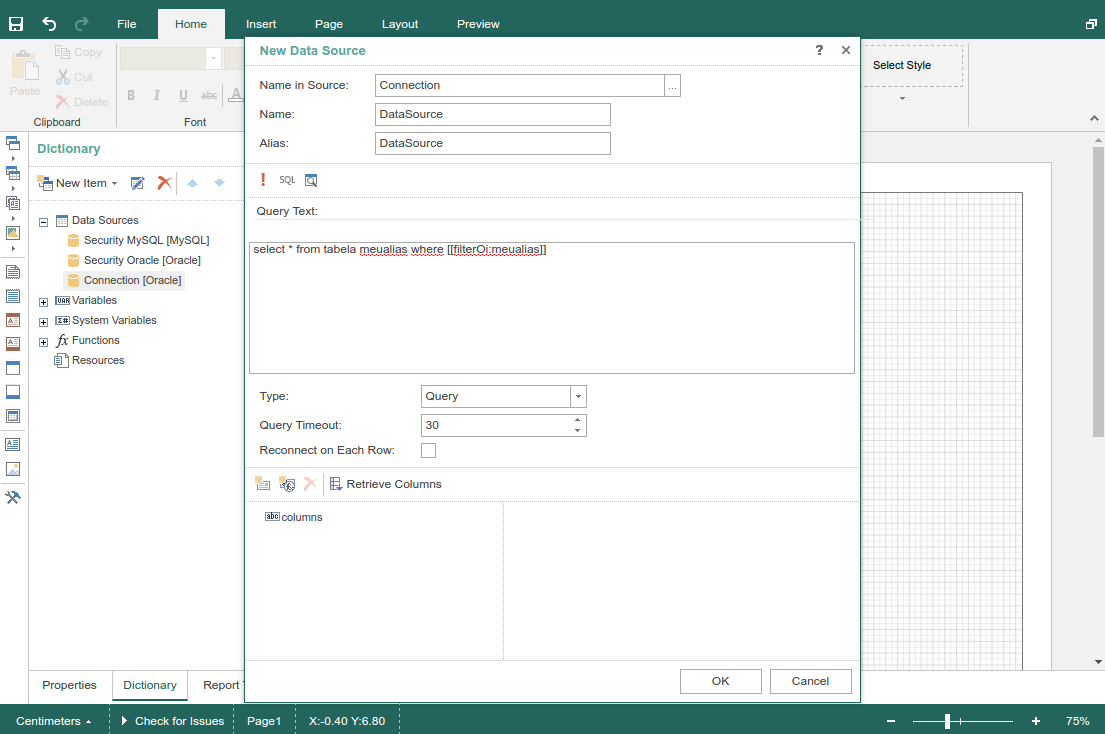
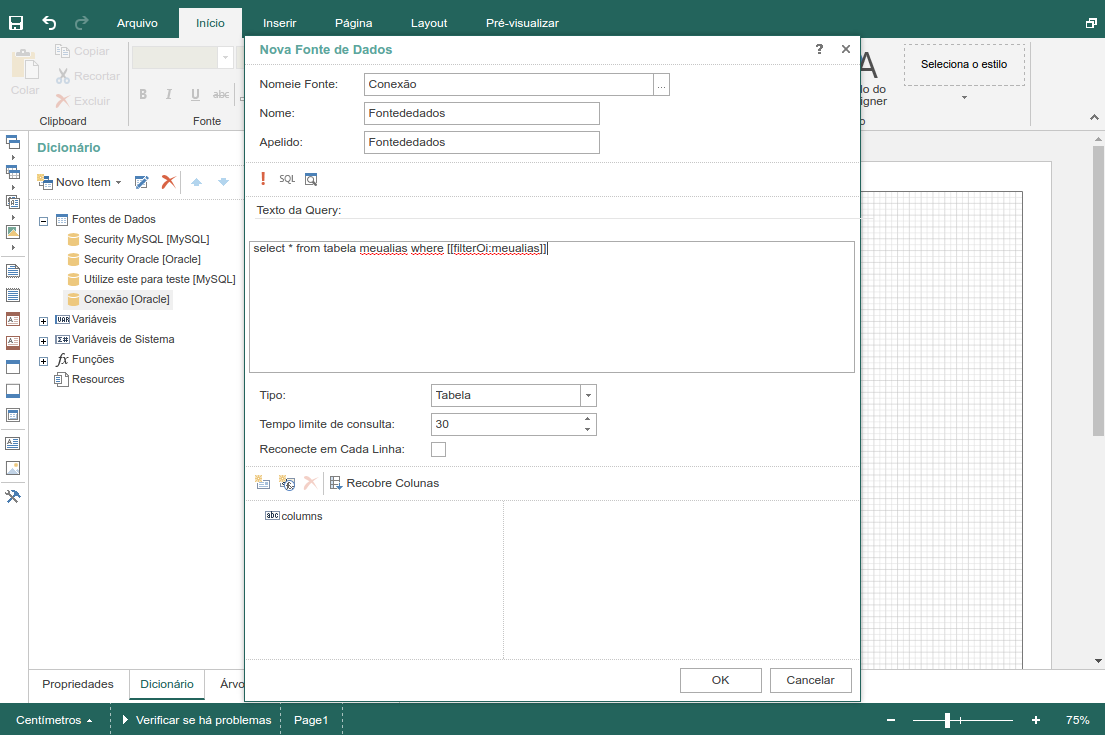
1.2.0 docs

diff --git a/docs/1.2.0/index.html b/docs/1.2.0/index.html
@@ -35,16 +35,16 @@
           <div class="row">
               <div class="col-xs-12">
                   <h2>Descrição</h2>
-                  <p>O componente gumgaReport foi criado no intuito de facilitar o desenvolvimento de relatórios utilizando a ferramenta Stimulsoft.</p>
+                  <p>O componente gumgaReport foi criado no intuito de facilitar o desenvolvimento de relatórios utilizando a ferramenta Gumga Report.</p>
               </div>
           </div>
           <div class="row">
               <div class="col-xs-12">
                   <h3>Observações</h3>
-                  <p>Como este componente depende diretamente da aplicação Stimulsoft, é necessário fazer a Importação dos arquivos 
+                  <p>Como este componente depende diretamente da aplicação Gumga Report, é necessário fazer a Importação dos arquivos
                       javascript e css que estão no diretório de instalação do componente. No exemplo de instalação ao lado está descrito
                       também o caminho do arquivo de estilização do visualizador e do editor, entretanto é possível utilizar outros temas conforme
-                      desejado, pois os mesmos podem ser encontrados dentro do diretório listado <i>(gumga-report-ng/dist/stimulsoft/css/**temas**)</i>.
+                      desejado, pois os mesmos podem ser encontrados dentro do diretório listado <i>(gumga-report-ng/dist/gumgareport/css/**temas**)</i>.
                       <b>Utilize 'obj' como alias para suas consultas SQL, para que ocorra a filtragem pelo ID da organização.</b>
                   </p>
               </div>
@@ -62,7 +62,7 @@ bower install gumga-report-ng --save
 angular.module('yourApp', ['gumga.report']);
 
 // Importação das dependências do componente pelo npm
-//------------------- Arquivos do stimulsoft ------------------//
+//------------------- Arquivos do Gumga Report ------------------//
 &lt;script src="node_modules/gumga-report-ng/dist/stimulsoft/js/stimulsoft.reports.pack.js">&lt;/script>
 
 &lt;script src="node_modules/gumga-report-ng/dist/stimulsoft/js/stimulsoft.viewer.pack.js">&lt;/script>
@@ -77,7 +77,7 @@ angular.module('yourApp', ['gumga.report']);
 &lt;script src="node_modules/gumga-report-ng/dist/gumga-report-ng.min.js"&gt;&lt;/script&gt;
 
 // Importação das dependências do componente pelo bower
-//-------------------- Arquivos do stimulsoft -----------------//
+//-------------------- Arquivos do Gumga Report -----------------//
 &lt;script src="bower_components/gumga-report-ng/dist/stimulsoft/js/stimulsoft.reports.pack.js">&lt;/script>
 
 &lt;script src="bower_components/gumga-report-ng/dist/stimulsoft/js/stimulsoft.viewer.pack.js">&lt;/script>
@@ -126,7 +126,7 @@ angular.module('yourApp', ['gumga.report']);
                   <pre><code class="prettyprint">
                       
     var api = "http://localhost/minha-api"
-    angular.module('app', ['ngGumgaReport', 'gumga.rest', 'gumga.controller'])
+    angular.module('app', ['gumga.report', 'gumga.rest', 'gumga.controller'])
     .config(function ($httpProvider, $gumgaReportProvider) {
 
         /** Localização da api **/
@@ -192,7 +192,7 @@ angular.module('yourApp', ['gumga.report']);
               <td><code>Object</code></td>
               <td>Não</td>
               <td>
-                Com este atributo é possível personalizar opções do Stimulsoft, dentre elas são exemplos: tamanho, disposição, menus, barra de ferramentas, dentre outras.
+                Com este atributo é possível personalizar opções do Gumga Report, dentre elas são exemplos: tamanho, disposição, menus, barra de ferramentas, dentre outras.
                 Para visualizar um exemplo de objeto clique aqui
                 <b style="cursor: pointer; color: #366591;" class="glyphicon glyphicon-plus" data-toggle="collapse" data-target="#demo" ></b>.
                 <div id="demo" class="collapse">
@@ -445,7 +445,7 @@ angular.module('yourApp', ['gumga.report']);
         apiLocation: 'http://localhost/minha-api'
     }
     </code></pre>
-                        Entretanto, as conexões do Stimulsoft precisam que seja configurada esta propriedade.
+                        Entretanto, as conexões do Gumga Report precisam que seja configurada esta propriedade.
                     </td>
                 </tr>
                 <tr>
@@ -458,7 +458,7 @@ angular.module('yourApp', ['gumga.report']);
                     <td><strong>$gumgaReportProvider.setLicenseKey(null);</strong></td>
                     <td><code>String</code></td>
                     <td>Não</td>
-                    <td>Configure sua licensa do Stimulsoft.</td>
+                    <td>Configure sua licensa do Gumga Report.</td>
                 </tr>
                 <tr>
                     <td><strong>$gumgaReportProvider.setLocalizationLang('dist/stimulsoft/langs/pt-BR.xml');</strong></td>

diff --git a/docs/1.2.0/app.js b/docs/1.2.0/app.js
@@ -27,5 +27,6 @@ angular.module('app', ['gumga.report', 'gumga.rest', 'gumga.controller'])
         $gumgaReportProvider.setAPILocation({apiLocation:'https://report.gumga.io/reportservice-api'})
         $gumgaReportProvider.setToken('testereport')
         $gumgaReportProvider.setLicenseKey(null);
+        $gumgaReportProvider.setLocalizationLang('dist/stimulsoft/langs/pt-BR.xml');
         $httpProvider.defaults.headers.common['gumgaToken'] = 'testereport'
     })
